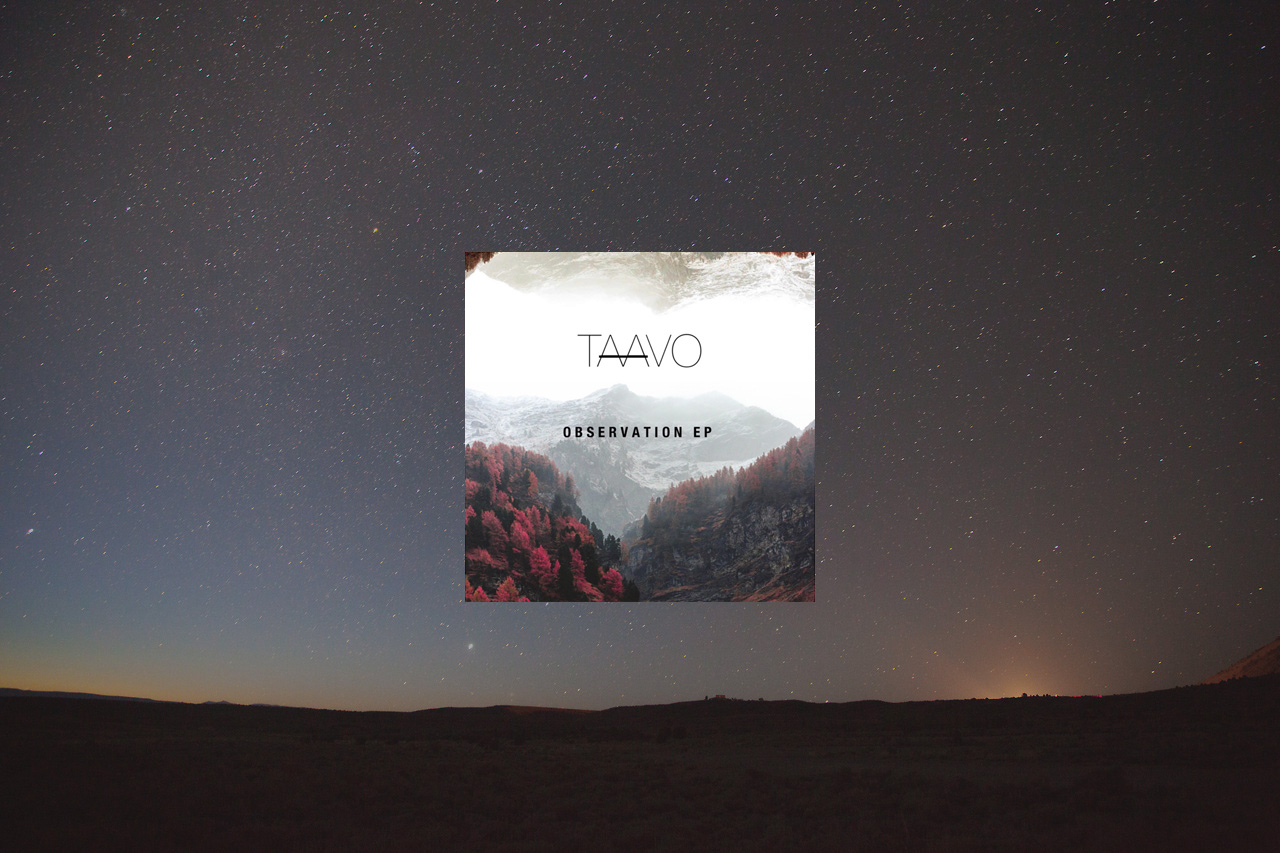
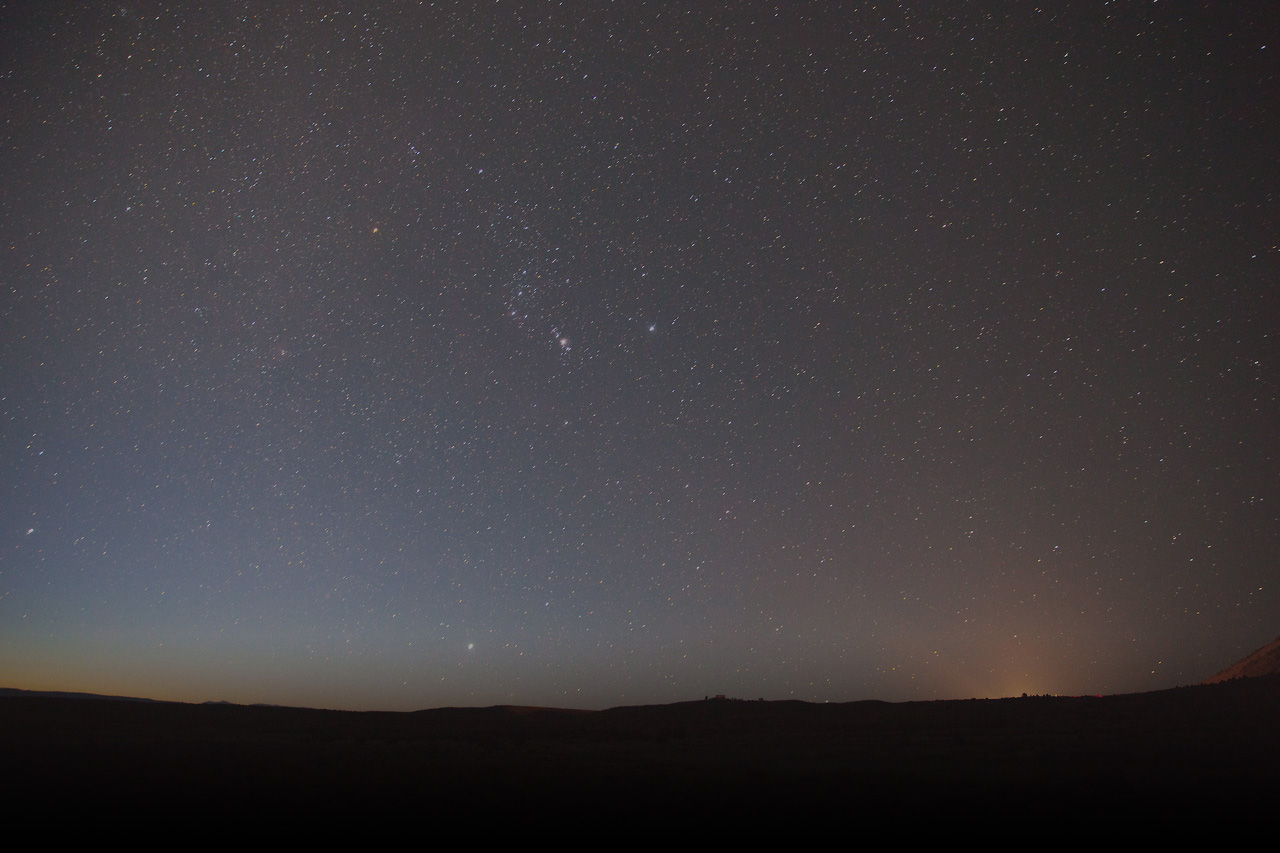
Tweaks

diff --git a/index.html b/index.html
@@ -2,7 +2,7 @@
 <html lang="en">
 <head>
   <meta charset="utf-8">
-  <title>Globallanding - Bootstrap Landing Template</title>
+  <title>TAAVO</title>
   <meta content="width=device-width, initial-scale=1.0" name="viewport">
   <meta content="" name="keywords">
   <meta content="" name="description">
@@ -23,13 +23,6 @@
 
   <!-- Main Stylesheet File -->
   <link href="css/style.css" rel="stylesheet">
-
-  <!-- =======================================================
-    Template Name: GlobalLanding
-    Template URL: https://templatemag.com/globallanding-bootstrap-landing-template/
-    Author: TemplateMag.com
-    License: https://templatemag.com/license/
-  ======================================================= -->
 </head>
 
 <body>
@@ -38,11 +31,9 @@
     <div class="content">
       <div id="large-header" class="large-header">
         <canvas id="demo-canvas"></canvas>
-        <h1 class="main-title">&nbsp;</h1>
-        <p class="main-tagline">
-          &nbsp;<br><br>
-          <a href="#news" class="smoothscroll btn btn-conf btn-theme">Listen</a>
-        </p>
+        <div class="album-cover" style="">
+          <a href="#links" class="smoothscroll btn btn-conf btn-theme">Listen</a>
+        </div>
       </div>
     </div>
     <!--content-->
@@ -55,7 +46,22 @@
       <div class="row">
         <h5 class="centered">Bio</h5>
         <hr class="aligncenter mb">
-          <p>TAAVO (David Balik) is 22 years old Czech producer and DJ. Since young age he has been playing piano and guitar. He fell in love with composing music at the age 14 and his first remix went out in January 2015. Up to now he has released 8 remixes and 6 original songs, where he worked together with international singers. People love his music because of his chill out positive vibes and the feelings which he can spread through his music. </p>
+        <div style="padding: 0 20px;">
+          <p>David Balik (TAAVO) is a DJ and producer known for his Deep and Minimal vibes surrounded by groovy melodies in contrast with classical instruments.</p>
+          <p>His latest release from June 2018 “Observation EP” consists of four melancholic and emotive singles, characterized by combination of minimalist elements and massive beats. Songs are closely associated with nature, which is captured in various ways in each song and links the entire EP.</p>
+          <br>
+          <div style="text-align: center;">
+            <a href="https://www.instagram.com/taavo_music/" class="btn btn-social">
+              <i class="icon ion-social-instagram-outline"></i>
+            </a>
+            <a href="https://www.facebook.com/musictaavo" class="btn btn-social">
+              <i class="icon ion-social-facebook"></i>
+            </a>
+            <a href="mailto:taavomusic@gmail.com" class="btn btn-social">
+              <i class="icon ion-ios-email-outline"></i>
+            </a>
+          </div>
+        </div>
       </div>
     </div>
     <!--/container-->
@@ -71,7 +77,7 @@
   </div>
   <!-- /photo -->
 
-  <section class="news" id="news">
+  <section class="news" id="links">
     <div class="container">
       <div class="row">
         <div class="col-sm-6 col-left" style="text-align: center;">

diff --git a/css/style.css b/css/style.css
@@ -55,6 +55,7 @@ html, body {
 .aligncenter {
   margin-left: auto;
   margin-right: auto;
+  padding: 0 20px;
   display: block;
   clear: both;
 }
@@ -191,6 +192,21 @@ input {
 
 /* Buttons Configuration */
 
+.btn-social {
+  width: 60px;
+  height: 60px;
+  border-radius: 50%;
+  background-color: white;
+  color: black;
+  cursor: pointer;
+  margin: 0 6px;
+  padding: 0;
+}
+
+.btn-social:hover {
+  color: darkgray;
+}
+
 .btn-conf {
   border-radius: 50px;
   margin-right: 15px;
@@ -201,6 +217,7 @@ input {
 }
 
 .btn-theme {
+  cursor: pointer;
   background: #762c3e;
   color: white
 }
@@ -255,6 +272,24 @@ hr {
   -webkit-transform: translate3d(-50%, -50%, 0);
   transform: translate3d(-50%, -50%, 0);
   font-size: 18px;
+}
+
+.album-cover {
+  position: absolute;
+  margin: 0;
+  padding: 180px 0 0 0;
+  color: #f9f1e9;
+  text-align: center;
+  top: 50%;
+  left: 50%;
+  -webkit-transform: translate3d(-50%, -50%, 0);
+  transform: translate3d(-50%, -50%, 0);
+  font-size: 18px;
+
+  width: 300px;
+  height: 300px;
+  background-image: url('../img/album.jpg');
+  background-size: cover;
 }
 
 .intro .main-title {
@@ -478,7 +513,7 @@ nm {
 }
 
 .contact-form .form-send button  {
-  background: #f7ca18;
+  background: #762c3e;
   border: 0;
   padding: 10px 30px;
   color: #fff;

diff --git a/lib/tweenlite/init.js b/lib/tweenlite/init.js
@@ -102,6 +102,7 @@
         width = window.innerWidth;
         height = window.innerHeight;
         largeHeader.style.height = height+'px';
+        document.querySelector('.photo .large-header').style.height = height+'px';
         canvas.width = width;
         canvas.height = height;
     }
@@ -155,7 +156,7 @@
             ctx.beginPath();
             ctx.moveTo(p.x, p.y);
             ctx.lineTo(p.closest[i].x, p.closest[i].y);
-            ctx.strokeStyle = 'rgba(247,202,24,'+ p.active+')';
+            ctx.strokeStyle = 'rgba(255,255,255,'+ p.active+')';
             ctx.stroke();
         }
     }
@@ -174,7 +175,7 @@
             if(!_this.active) return;
             ctx.beginPath();
             ctx.arc(_this.pos.x, _this.pos.y, _this.radius, 0, 2 * Math.PI, false);
-            ctx.fillStyle = 'rgba(247,202,24,'+ _this.active+')';
+            ctx.fillStyle = 'rgba(255,255,255,'+ _this.active+')';
             ctx.fill();
         };
     }
